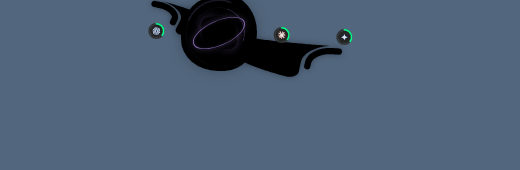
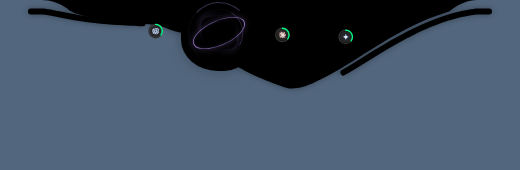
Absorb the notch from its screen-facing inner lip

Changed region(s): [[0.0308, 0.0, 0.9538, 0.5294]]

diff --git a/desktop/ui/attachment-drop.js b/desktop/ui/attachment-drop.js
@@ -10,7 +10,7 @@
   }
   function paint(){
     if(!target)return;
-    target.style.setProperty('--drop-open',Math.max(0,Math.min(1,amount*2.2)).toFixed(4));
+    target.style.setProperty('--drop-open',Math.max(0,Math.min(1,amount*3.4)).toFixed(4));
     const ring=target.querySelector('.ringwrap'),at=ring.getBoundingClientRect();
     const phase=amount*Math.PI;
     target.style.setProperty('--hole-radius',`${48+Math.sin(phase)*10}% ${52-Math.sin(phase)*10}% 46% 54% / 56% ${43+Math.sin(phase)*12}% 57% 44%`);
@@ -32,7 +32,7 @@
   }
   function tick(now){
     frame=0;const dt=last?(now-last)/1000:1/60;last=now;
-    [amount,velocity]=uiMotion.spring(amount,velocity,goal,goal?6.5:15,.95,dt);
+    [amount,velocity]=uiMotion.spring(amount,velocity,goal,goal?4.8:15,.95,dt);
     uiMotion.paint('attachment-gravity',paint,45);
     if(Math.abs(amount-goal)<.002&&Math.abs(velocity)<.02){amount=goal;velocity=0;if(!goal)clear();else uiMotion.paint('attachment-gravity',paint,45);last=0;}
     else frame=uiMotion.frame(tick);
@@ -88,8 +88,8 @@
 })();
 
 // Sample the live contours, then deform their material rather than scaling the box.
-// Near material falls first; the radial gradient stretches a neck, while angular
-// motion curves it into the disk. A stylized tidal flow, not a relativity simulation.
+// The screen-facing lip falls first, then the anchored screen edge releases.
+// The radial gradient stretches a neck while angular motion curves it into the disk.
 const gravityContours=new WeakMap();
 let gravityInk=null;
 function paintAttachmentGravity(){
@@ -119,12 +119,18 @@ function paintAttachmentGravity(){
     contours.push(contour);
   }
   const radius=Math.max(1,...contours.flatMap(c=>c.points.map(p=>Math.hypot(p.x-point.x,p.y-point.y))));
+  const depth=p=>{const s=p.matrixTransform(svgMatrix);return notchEdge==='top'?s.y:notchEdge==='bottom'?innerHeight-s.y:notchEdge==='left'?s.x:innerWidth-s.x;};
+  const maxDepth=Math.max(1,...contours.flatMap(c=>c.points.map(depth)));
   while(gravityInk.children.length>contours.length)gravityInk.lastChild.remove();
   contours.forEach((contour,i)=>{
     let ink=gravityInk.children[i];if(!ink){ink=document.createElementNS(SVG_NS,'path');gravityInk.append(ink);}
     const warped=contour.points.map(p=>{
-      const dx=p.x-point.x,dy=p.y-point.y,r=Math.hypot(dx,dy),arrival=.32+.68*Math.pow(r/radius,.6),t=Math.min(1,a/arrival);
-      const distance=r*Math.pow(1-t,1.3),angle=Math.atan2(dy,dx)+1.1*t*t;
+      const inward=Math.max(0,Math.min(1,depth(p)/maxDepth));
+      // Delay the rear boundary so a visible concave bite travels through the
+      // material from the rounded inner lip, rather than peeling the screen line.
+      const delay=.58*Math.pow(1-inward,1.2),flow=Math.max(0,(a-delay)/(1-delay));
+      const dx=p.x-point.x,dy=p.y-point.y,r=Math.hypot(dx,dy),arrival=.52+.48*Math.pow(r/radius,.6),t=Math.min(1,flow/arrival);
+      const distance=r*Math.pow(1-t,1.15),angle=Math.atan2(dy,dx)+1.45*t*t;
       return `${(point.x+Math.cos(angle)*distance).toFixed(2)} ${(point.y+Math.sin(angle)*distance).toFixed(2)}`;
     });
     ink.setAttribute('d','M'+warped.join('L')+(contour.closed?'Z':''));

diff --git a/docs/release-history.md b/docs/release-history.md
@@ -512,3 +512,13 @@ Type-specific file illustrations, extension badges, wrapping filenames and sizes
 replace generic document tiles; supported images keep actual thumbnails.
 Claude/AGY delivery research is recorded in the attachment documentation; their
 existing sessions retain the explicit manual handoff in this release.
+
+
+## 5.0.12 — Absorb the inner lip first
+
+Black-hole absorption now starts at the notch’s rounded edge facing the center
+of the screen. The screen boundary stays anchored initially and releases later,
+forming a deeper inward funnel instead of peeling the straight screen line.
+The material moves more slowly and curves further before entering the hole.
+All four edges retain stationary drop targets and cancellation restores the notch.
+Browser coverage verifies the order of lip and screen-boundary movement.

diff --git a/docs/attachment-drop.md b/docs/attachment-drop.md
@@ -80,7 +80,10 @@ the review form quiet, legible and explicit.
 
 ## Absorption and preview refinement (5.0.11)
 
-The contour is sampled and deformed nonuniformly: near material falls first,
+The contour is sampled and deformed nonuniformly. In 5.0.12 the rounded inner
+lip facing the screen center falls first; the boundary against the screen stays
+anchored until later in the pull. The slower collapse makes the inward funnel
+and trailing strands more visible. As material flows,
 radial stretching draws a narrow neck, and angular motion bends the stream into
 an accretion-like disk. The original drawing is restored on cancellation. The
 screen-edge bleed is clipped before deformation; hit targets never move. The

diff --git a/README.md b/README.md
@@ -7,7 +7,7 @@ know which agents need you, and return to a chat in VS Code without hunting for
 its terminal or choosing the account again.
 
 [Download the latest Windows installer](https://github.com/f-petrozzi/Agent-Usage/releases/latest).
-The current release is **5.0.11**.
+The current release is **5.0.12**.
 
 <p><img src="docs/images/notch.png" width="720" alt="The top-edge Agent Usage notch with four fictional accounts, provider icons, usage gauges and a yellow unread notification dot"></p>
 
